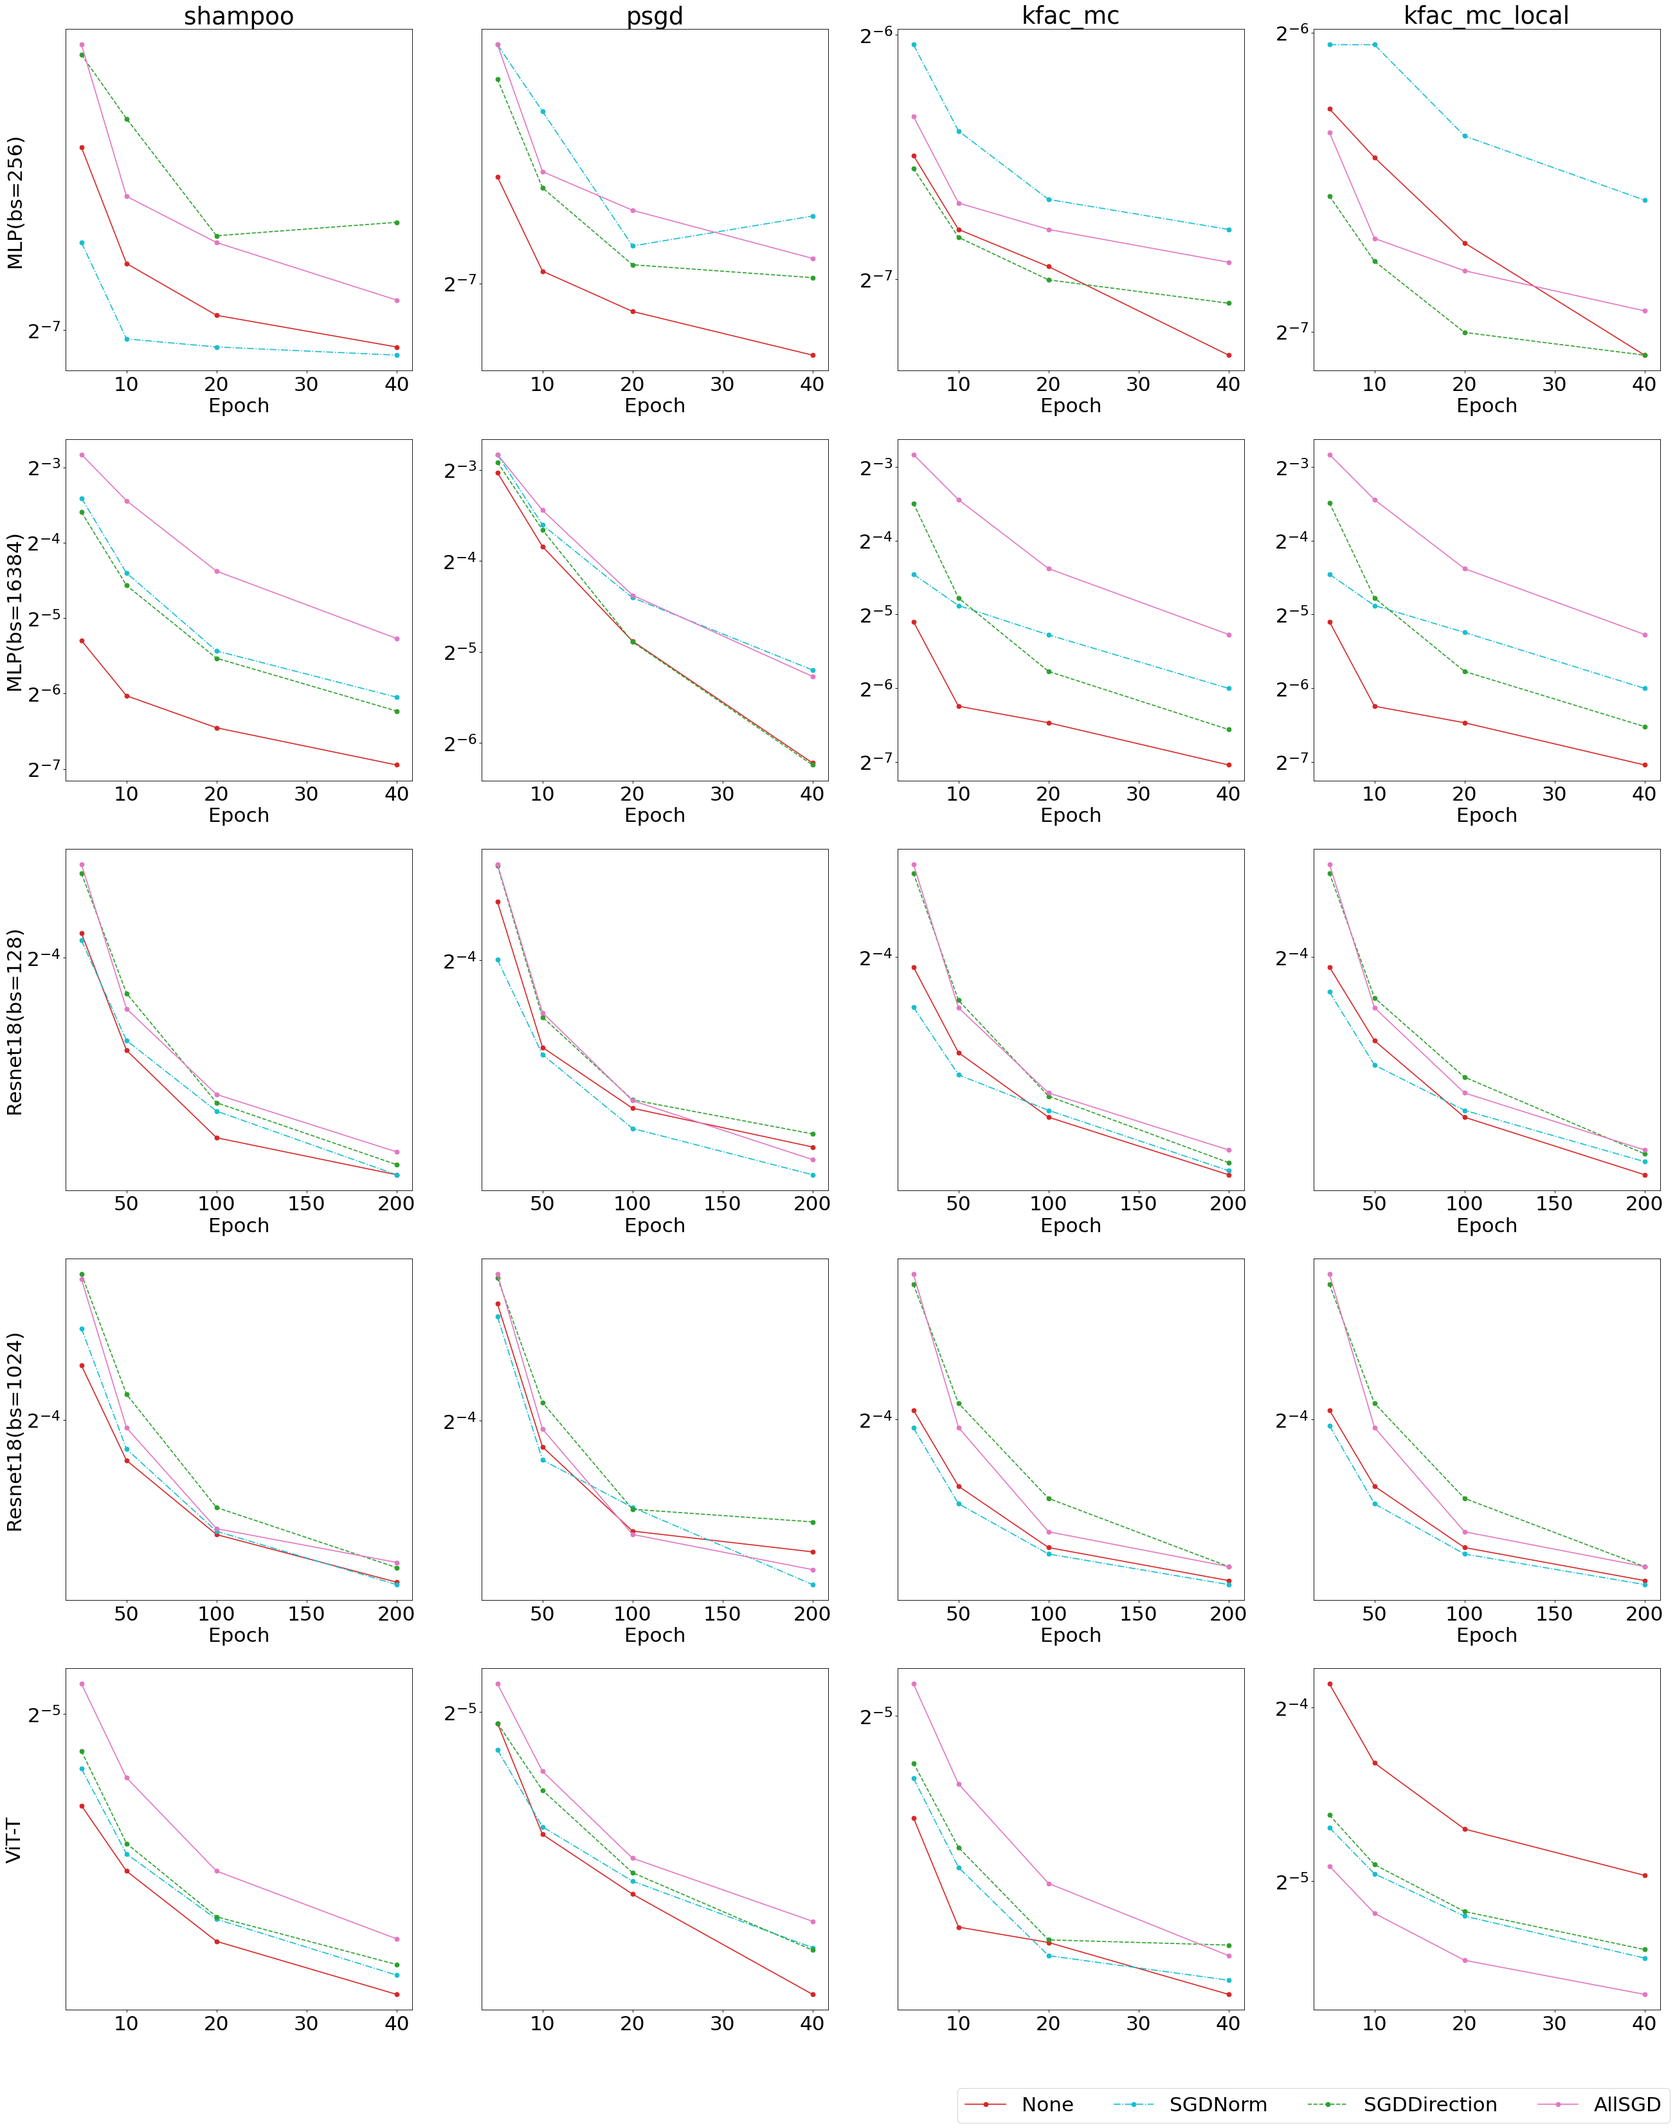
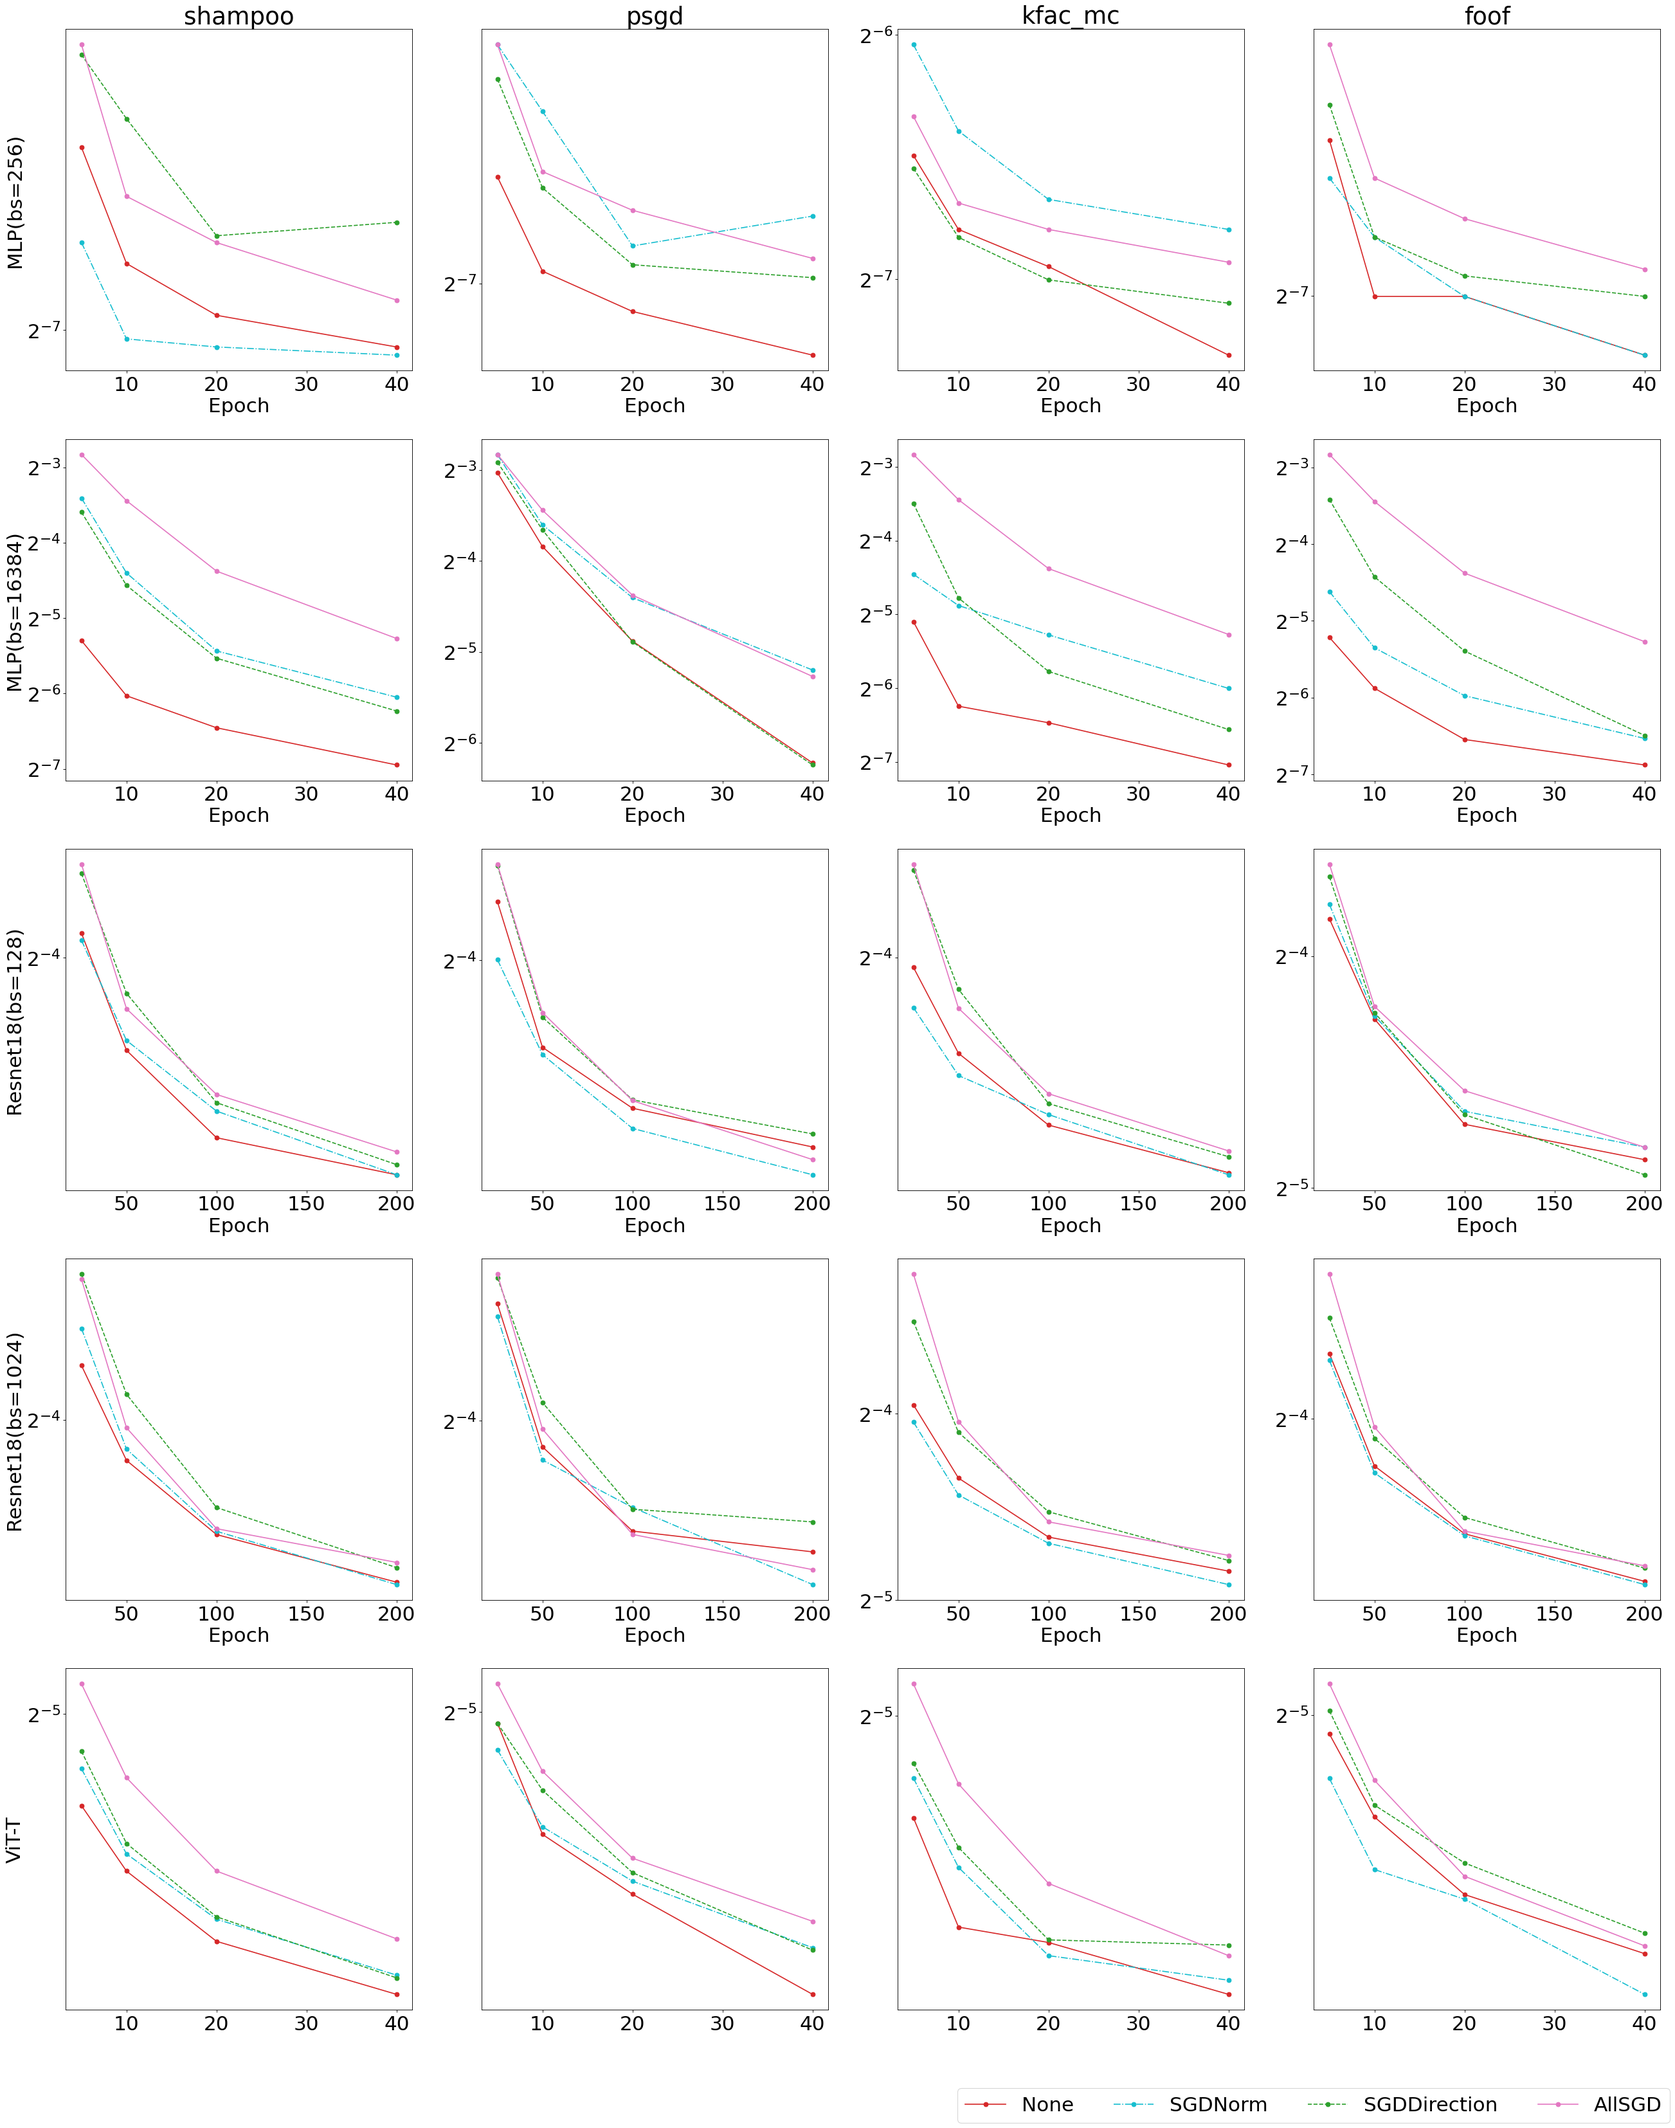
resnet batch

diff --git a/sotsuron/bstest.py b/sotsuron/bstest.py
@@ -21,7 +21,7 @@ def remove_dict(acc_dic,batchsize_list):
                 acc_dic[optim].pop(bs)
     return acc_dic
 
-def collect_runs(model,sweep_list_mlp,batchsize_list,metric='test_accuracy'):
+def collect_runs(model,sweep_list_mlp,batchsize_list,metric='train_accuracy'):
     damp_loss_dic = make_dict(batchsize_list)
     for sweep_name in sweep_list_mlp:
         sweep = api.sweep(sweep_name)
@@ -38,7 +38,7 @@ def collect_runs(model,sweep_list_mlp,batchsize_list,metric='test_accuracy'):
                 if 1-test_accuracy < cur_loss:
                     damp_loss_dic[run.config.get('optim')][run.config.get('batch_size')]=1-test_accuracy
 
-                if run.config.get('optim')=='kfac_mc' and run.config.get('ema_decay')==-1:
+                if run.config.get('optim')=='kfac_mc' and (run.config.get('ema_decay')==-1 or  run.config.get('ema_decay')==1):
                     cur_loss=damp_loss_dic['kfac_mc_local'][run.config.get('batch_size')]
                     if 1-test_accuracy < cur_loss:
                         damp_loss_dic['kfac_mc_local'][run.config.get('batch_size')]=1-test_accuracy
@@ -48,10 +48,10 @@ def collect_runs(model,sweep_list_mlp,batchsize_list,metric='test_accuracy'):
 
 if __name__=='__main__':
     api = wandb.Api()
-    optim_list = ['sgd','adamw','shampoo','kfac_mc','kfac_mc_local','seng','psgd','foof']
+    optim_list = ['sgd','adamw','shampoo','kfac_mc_local','kfac_mc','seng','psgd','foof']
     batchsize_list = [256,512,1024,2048,4096,8192,16384]
     batchsize_list_vit = [64,128,256,512,1024]
-    filename = './graph/ipsj2.png'
+    filename = './graph/bstest.png'
 
     sweep_list_mlp={
         'riverstone/criteria/spzpahql',
@@ -60,7 +60,10 @@ if __name__=='__main__':
         'riverstone/grad_maker/5sweoxrv',
         'riverstone/grad_maker/xb0y5kd5',
         'riverstone/grad_maker/n727u0s3',
-        'riverstone/grad_maker/yqid66vz'
+        'riverstone/grad_maker/yqid66vz',
+        'riverstone/grad_maker/8ufrctyz',
+        'riverstone/grad_maker/p0s014j8',
+        'riverstone/criteria/denix8xi'
     }
 
     sweep_list_vit={
@@ -68,20 +71,38 @@ if __name__=='__main__':
         'riverstone/vit_batch/zarall9n',
         'riverstone/vit_batch/9w0fl9qv',
         'riverstone/vit_batch/7qy5v4jk',
-        'riverstone/vit_batch/tvbsauhx'
+        'riverstone/vit_batch/tvbsauhx',
+        'riverstone/vit_batch/qsdfynar',
+        'riverstone/vit_batch/cpzqkh7f',
+        'riverstone/vit_batch/npgaogw4',
+        'riverstone/vit_batch/ltjonitr'
     }
 
-    clip_test_dic_mlp=collect_runs('mlp',sweep_list_mlp,batchsize_list,metric='test_accuracy')
-    clip_test_dic_vit=collect_runs('vit_tiny_patch16_224',sweep_list_vit,batchsize_list_vit,metric='test_accuracy')
+    sweep_list_res={
+        'riverstone/res_batch/lle7ao87',
+        'riverstone/res_batch/swtoakmv',
+        'riverstone/res_batch/fl4iqmyk',
+        'riverstone/res_batch/fnetnblk',
+        'riverstone/res_batch/2mro7urd',
+    }
+
+    metric='test_accuracy'
+    clip_test_dic_mlp=collect_runs('mlp',sweep_list_mlp,batchsize_list,metric=metric)
+    clip_test_dic_res=collect_runs('resnet18',sweep_list_res,batchsize_list,metric=metric)
+    clip_test_dic_vit=collect_runs('vit_tiny_patch16_224',sweep_list_vit,batchsize_list_vit,metric=metric)
     clip_test_dic_vit=remove_dict(clip_test_dic_vit,batchsize_list_vit)
 
     plt.rcParams["font.size"] = 28
-    fig, axes = plt.subplots(nrows=2, ncols=1, figsize=(10, 21))
+    fig, axes = plt.subplots(nrows=1, ncols=3, figsize=(30, 10))
 
     for j in range(len(optim_list)):
         optim = optim_list[j]
         clip_dampli=list(clip_test_dic_vit[optim].keys())
         clip_lossli=list(clip_test_dic_vit[optim].values())
+        axes[2].plot(clip_dampli,clip_lossli,label=optim_dict[optim],color=col[optim],marker='o')
+
+        clip_dampli=list(clip_test_dic_res[optim].keys())
+        clip_lossli=list(clip_test_dic_res[optim].values())
         axes[1].plot(clip_dampli,clip_lossli,label=optim_dict[optim],color=col[optim],marker='o')
 
         clip_dampli=list(clip_test_dic_mlp[optim].keys())
@@ -90,17 +111,21 @@ if __name__=='__main__':
 
         axes[0].set_xscale('log',base=2)
         axes[1].set_xscale('log',base=2)
+        axes[2].set_xscale('log',base=2)
         
         axes[0].set_yscale('log',base=2)
         axes[1].set_yscale('log',base=2)
+        axes[2].set_yscale('log',base=2)
 
         axes[0].set_xlabel('Batch size')
         axes[1].set_xlabel('Batch size')
+        axes[2].set_xlabel('Batch size')
         axes[0].set_ylabel('Test Error rate')
         axes[1].set_ylabel('Test Error rate')
         axes[0].set_title('MLP')
-        axes[1].set_title('ViT-T')
+        axes[1].set_title('Resnet18')
+        axes[2].set_title('ViT-T')
     
-    plt.legend(loc='upper center', bbox_to_anchor=(0.5, -0.1), ncol=2)
+    plt.legend(loc='upper center', bbox_to_anchor=(0.1, -0.1), ncol=4)
     plt.plot()
     plt.savefig(filename,dpi=80,bbox_inches='tight',pad_inches=0.1)

diff --git a/ipsj/ipsj2-1.py b/ipsj/ipsj2-1.py
@@ -1,0 +1,113 @@
+import wandb
+import matplotlib.pyplot as plt
+import numpy as np
+
+col = {'sgd':'tab:pink','psgd':'tab:red','kfac_mc':'tab:green','kfac_mc_local':'tab:cyan','seng':'tab:blue','shampoo':'tab:purple','adamw':'tab:brown','foof':'tab:olive'}
+model_name_dic = {'mlp':'MLP','cnn':'CNN','resnet18':'Resnet18','vit_tiny_patch16_224':'ViT-tiny'}
+optim_dict = {'sgd':'SGD','adamw':'AdamW','psgd':'PSGD(KF)','kfac_mc':'K-FAC(global)','kfac_mc_local':'K-FAC(local)','skfac_mc':'SK-FAC(1-mc)','shampoo':'Shampoo','seng':'SENG','smw_ngd':'SMW-NG','foof':'FOOF'}
+
+def make_dict(batchsize_list):
+    acc_dic={}
+    for optim in optim_list:
+        acc_dic[optim]={}
+        for bs in batchsize_list:
+            acc_dic[optim][bs]=np.inf
+    return acc_dic
+
+def remove_dict(acc_dic,batchsize_list):
+    for optim in optim_list:
+        for bs in batchsize_list:
+            if acc_dic[optim][bs]==1:
+                acc_dic[optim].pop(bs)
+    return acc_dic
+
+def collect_runs(model,sweep_list_mlp,batchsize_list,metric='train_accuracy'):
+    damp_loss_dic = make_dict(batchsize_list)
+    for sweep_name in sweep_list_mlp:
+        sweep = api.sweep(sweep_name)
+        runs = sweep.runs
+        for run in runs:
+            model_name = run.config.get('model')
+            if model_name == model  and run.config.get('batch_size') in batchsize_list and run.config.get('optim') in optim_list:
+                if run.summary.get("cuda_max_memory") == -1 or type(run.summary.get(metric)) != float:
+                    test_accuracy=0
+                else:
+                    test_accuracy=run.summary.get(metric)/100
+
+                cur_loss=damp_loss_dic[run.config.get('optim')][run.config.get('batch_size')]
+                if 1-test_accuracy < cur_loss:
+                    damp_loss_dic[run.config.get('optim')][run.config.get('batch_size')]=1-test_accuracy
+
+                if run.config.get('optim')=='kfac_mc' and (run.config.get('ema_decay')==-1 or  run.config.get('ema_decay')==1):
+                    cur_loss=damp_loss_dic['kfac_mc_local'][run.config.get('batch_size')]
+                    if 1-test_accuracy < cur_loss:
+                        damp_loss_dic['kfac_mc_local'][run.config.get('batch_size')]=1-test_accuracy
+
+    print(damp_loss_dic)
+    return damp_loss_dic
+
+if __name__=='__main__':
+    api = wandb.Api()
+    optim_list = ['sgd','adamw','shampoo','kfac_mc_local','kfac_mc','seng','psgd','foof']
+    batchsize_list = [256,512,1024,2048,4096,8192,16384]
+    batchsize_list_vit = [64,128,256,512,1024]
+    filename = './graph/ipsj2_train_all.png'
+
+    sweep_list_mlp={
+        'riverstone/criteria/spzpahql',
+        'riverstone/criteria/denix8xi',
+        'riverstone/optcriteria/e11b9g2v',
+        'riverstone/grad_maker/5sweoxrv',
+        'riverstone/grad_maker/xb0y5kd5',
+        'riverstone/grad_maker/n727u0s3',
+        'riverstone/grad_maker/yqid66vz',
+        'riverstone/grad_maker/8ufrctyz',
+        'riverstone/grad_maker/p0s014j8',
+        'riverstone/criteria/denix8xi'
+    }
+
+    sweep_list_vit={
+        'riverstone/vit_batch/9q8eq6ql',
+        'riverstone/vit_batch/zarall9n',
+        'riverstone/vit_batch/9w0fl9qv',
+        'riverstone/vit_batch/7qy5v4jk',
+        'riverstone/vit_batch/tvbsauhx',
+        'riverstone/vit_batch/qsdfynar',
+        'riverstone/vit_batch/cpzqkh7f',
+        'riverstone/vit_batch/npgaogw4',
+        'riverstone/vit_batch/ltjonitr'
+    }
+
+    clip_test_dic_mlp=collect_runs('mlp',sweep_list_mlp,batchsize_list,metric='train_accuracy_all')
+    clip_test_dic_vit=collect_runs('vit_tiny_patch16_224',sweep_list_vit,batchsize_list_vit,metric='train_accuracy_all')
+    clip_test_dic_vit=remove_dict(clip_test_dic_vit,batchsize_list_vit)
+
+    plt.rcParams["font.size"] = 28
+    fig, axes = plt.subplots(nrows=2, ncols=1, figsize=(10, 21))
+
+    for j in range(len(optim_list)):
+        optim = optim_list[j]
+        clip_dampli=list(clip_test_dic_vit[optim].keys())
+        clip_lossli=list(clip_test_dic_vit[optim].values())
+        axes[1].plot(clip_dampli,clip_lossli,label=optim_dict[optim],color=col[optim],marker='o')
+
+        clip_dampli=list(clip_test_dic_mlp[optim].keys())
+        clip_lossli=list(clip_test_dic_mlp[optim].values())
+        axes[0].plot(clip_dampli,clip_lossli,label=optim_dict[optim],color=col[optim],marker='o')
+
+        axes[0].set_xscale('log',base=2)
+        axes[1].set_xscale('log',base=2)
+        
+        axes[0].set_yscale('log',base=2)
+        axes[1].set_yscale('log',base=2)
+
+        axes[0].set_xlabel('Batch size')
+        axes[1].set_xlabel('Batch size')
+        axes[0].set_ylabel('Train all Error rate')
+        axes[1].set_ylabel('Train all Error rate')
+        axes[0].set_title('MLP')
+        axes[1].set_title('ViT-T')
+    
+    plt.legend(loc='upper center', bbox_to_anchor=(0.5, -0.1), ncol=2)
+    plt.plot()
+    plt.savefig(filename,dpi=80,bbox_inches='tight',pad_inches=0.1)

diff --git a/grafting.py b/grafting.py
@@ -4,7 +4,7 @@ import numpy as np
 
 col = {'AllSGD':'tab:pink','SGDNorm':'tab:cyan','SGDDirection':'tab:green','None':'tab:red'}
 model_name_dic = {'mlp':'MLP','cnn':'CNN','resnet18':'Resnet18','vit_tiny_patch16_224':'ViT-tiny'}
-optim_dict = {'sgd':'SGD','adamw':'AdamW','psgd':'PSGD(KF)','kfac_mc':'K-FAC(global)','kfac_mc_local':'K-FAC(local)','skfac_mc':'SK-FAC(1-mc)','shampoo':'Shampoo','seng':'SENG','smw_ngd':'SMW-NG'}
+optim_dict = {'sgd':'SGD','adamw':'AdamW','psgd':'PSGD(KF)','kfac_mc':'K-FAC(global)','foof':'FOOF','skfac_mc':'SK-FAC(1-mc)','shampoo':'Shampoo','seng':'SENG','smw_ngd':'SMW-NG'}
 grafting_dict = {'None':"solid",'SGDNorm':"dashdot",'SGDDirection':"dashed",'AllSGD':"solid"}
 
 def make_dict(epoch_list):
@@ -42,10 +42,10 @@ def collect_runs(model,bs,sweep_list_mlp,epoch_list,metric='max_test_accuracy'):
                 if 1-test_accuracy < cur_loss:
                     damp_loss_dic[run.config.get('optim')][str(run.config.get('grafting'))][run.config.get('epochs')]=1-test_accuracy
 
-                if run.config.get('optim')=='kfac_mc' and run.config.get('ema_decay')==-1:
-                    cur_loss=damp_loss_dic['kfac_mc_local'][str(run.config.get('grafting'))][run.config.get('epochs')]
-                    if 1-test_accuracy < cur_loss:
-                        damp_loss_dic['kfac_mc_local'][str(run.config.get('grafting'))][run.config.get('epochs')]=1-test_accuracy
+                # if run.config.get('optim')=='kfac_mc' and run.config.get('ema_decay')==-1:
+                #     cur_loss=damp_loss_dic['kfac_mc_local'][str(run.config.get('grafting'))][run.config.get('epochs')]
+                #     if 1-test_accuracy < cur_loss:
+                #         damp_loss_dic['kfac_mc_local'][str(run.config.get('grafting'))][run.config.get('epochs')]=1-test_accuracy
     print(damp_loss_dic)
     return damp_loss_dic
 
@@ -62,7 +62,7 @@ def plot(ax,output_dic,optim):
 
 if __name__=='__main__':
     api = wandb.Api()
-    optim_list = ['sgd','shampoo','psgd','kfac_mc','kfac_mc_local']
+    optim_list = ['sgd','shampoo','psgd','kfac_mc','foof']
     epoch_list = [5,10,20,40]
     epoch_list_resnet = [25,50,100,200]
     filename = './graph/grafting.png'
@@ -72,21 +72,22 @@ if __name__=='__main__':
         'riverstone/grafting/yvvvpeqq',
         'riverstone/grafting/6uu1uny6',
         'riverstone/grafting/u7szv79y',
-        'riverstone/grafting/gvi0d9s3'
+        'riverstone/grafting/gvi0d9s3',
+        'riverstone/grafting/xr4k3q2n'
     }
 
     sweep_list_resnet={
         'riverstone/grafting/cf10xbtw',
         'riverstone/grafting/rgdrwvna',
         'riverstone/grafting/oriqygl6',
-        'riverstone/grafting/iqc818x5',
-        'riverstone/grad_maker/pmjvkc1u'
+        'riverstone/grafting/s45umgc1'
     }
 
     sweep_list_vit={
         'riverstone/grafting/0fq4zsll',
         'riverstone/grafting/9t8riv33',
         'riverstone/grafting/l8skh2i3',
+        'riverstone/grafting/x54o7iz8'
     }
 
     test_dic_mlp_256=collect_runs('mlp',256,sweep_list_mlp,epoch_list,metric='test_accuracy')
